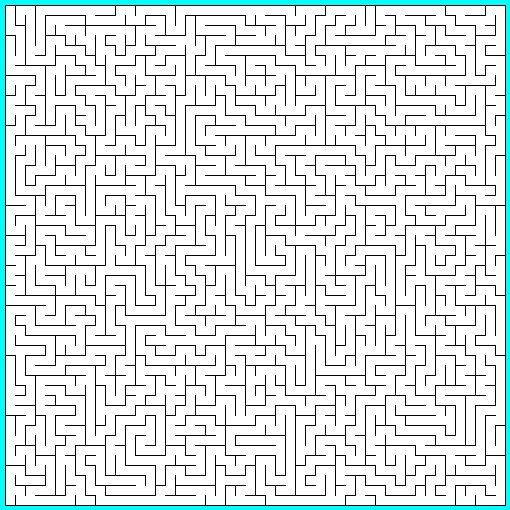
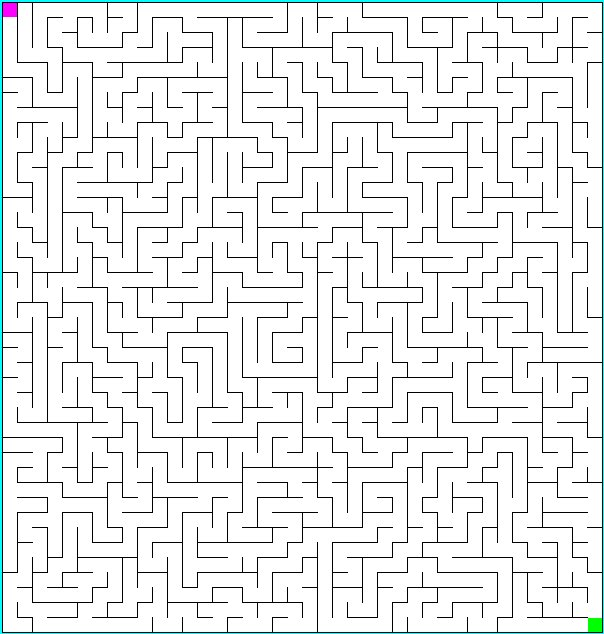
fixed bounds bugs
added draw_ends()

Changed region(s): [[0.0, 0.0, 1.0, 1.0]]

diff --git a/Maze_Creator.py b/Maze_Creator.py
@@ -129,7 +129,7 @@ class Maze:
         ## TODO: Two lines
         ## If we are animating, set FPS to 20
         if animate == True:
-            fps = 1000
+            fps = 100
 
         ## Our special list that we use as a stack
         stack = list()
@@ -179,11 +179,11 @@ class Maze:
                 ## TODO: Check if newx is outisde the grid
                 ## Is a negative coordinate in the grid?
                 ## If my grid is 20 tiles wide, is (20, 0) still in the grid?
-                if newx < 0 or newx > self.height-1:
+                if newx < 0 or newx > self.width-1:
                     continue
                 
                 ## TODO: Check if newy is outisde the grid
-                if newy < 0 or newy > self.width-1:
+                if newy < 0 or newy > self.height-1:
                     continue
 
                 ## TODO: If we have not visited (newx, newy) add the direction to the branch
@@ -235,6 +235,11 @@ class Maze:
                 ## TODO: One line, draw a white tile at (x, y)
                 self.draw_tile(x, y, WHITE)
 
+            def draw_ends():
+                self.draw_tile(0,0,PURPLE)
+                self.draw_tile(self.width-1,self.height-1,GREEN)
+
+        draw_ends()
         pygame.display.update()
 
     ## Save an image of the maze
@@ -248,15 +253,16 @@ if __name__ == "__main__":
     ## TODO: One Line
     ## Instantiate a Maze object
     '''width, height, tile size, border width'''
-    maze = Maze(50,50,10,5)
+    maze = Maze(40, 42, 15, 2)
 
     ## TODO: One Line
     ## Create the maze
-    '''where to start making the maze'''
+    '''which coord to start making the maze'''
     maze.make_maze(0,0)
 
     ## OPTIONAL: Save your maze as an image
     ## There is a function written that does this for you.
+
     maze.save_maze()
 
     ## Some stuff so that the window exits properly
